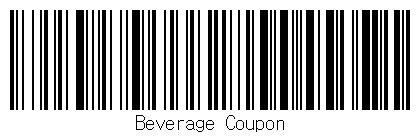
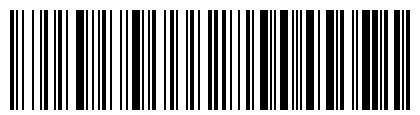
barcode 이미지 수정, coupon, couponmodal, auth 수정

diff --git a/src/components/Coupon.jsx b/src/components/Coupon.jsx
@@ -1,9 +1,10 @@
-import { useRef, useState } from "react";
+import { useEffect, useRef, useState } from "react";
 import CouponModal from "./CouponModal";
 
 const Coupon = ({ data }) => {
   const [isModalOpen, setIsModalOpen] = useState(false);
   const modalRef = useRef();
+  const couponContent = data?.content || null;
 
   const handleClickOutside = (e) => {
     if (modalRef.current && !modalRef.current.contains(e.target)) {
@@ -30,10 +31,10 @@ const Coupon = ({ data }) => {
           onClick={handleClickOutside}
         >
           <div
-            className="w-96 rounded-lg bg-white p-6 shadow-lg"
+            className="w-300 rounded-lg bg-white p-6 shadow-lg"
             ref={modalRef}
           >
-            <CouponModal />
+            <CouponModal content={couponContent} />
           </div>
         </div>
       )}

diff --git a/src/components/CouponModal.jsx b/src/components/CouponModal.jsx
@@ -1,8 +1,9 @@
-const CouponModal = () => {
+const CouponModal = ({ content }) => {
   return (
-    <div className="flex flex-col items-center justify-center">
+    <div className="flex w-full flex-col items-center justify-center">
       <div>쿠폰정보</div>
       <img src="/barcode.jpg" alt="" />
+      <p className="text-12">{content}</p>
     </div>
   );
 };

diff --git a/server/routes/auth.js b/server/routes/auth.js
@@ -106,7 +106,7 @@ router.post("/login", async (req, res) => {
   if (!result[0][0]) {
     return res.status(400).json({
       status: "error",
-      message: "회원 정보가 존재하지 않습니다.",
+      message: "아이디 또는 비밀번호를 확인해주세요.",
     });
   }
 
